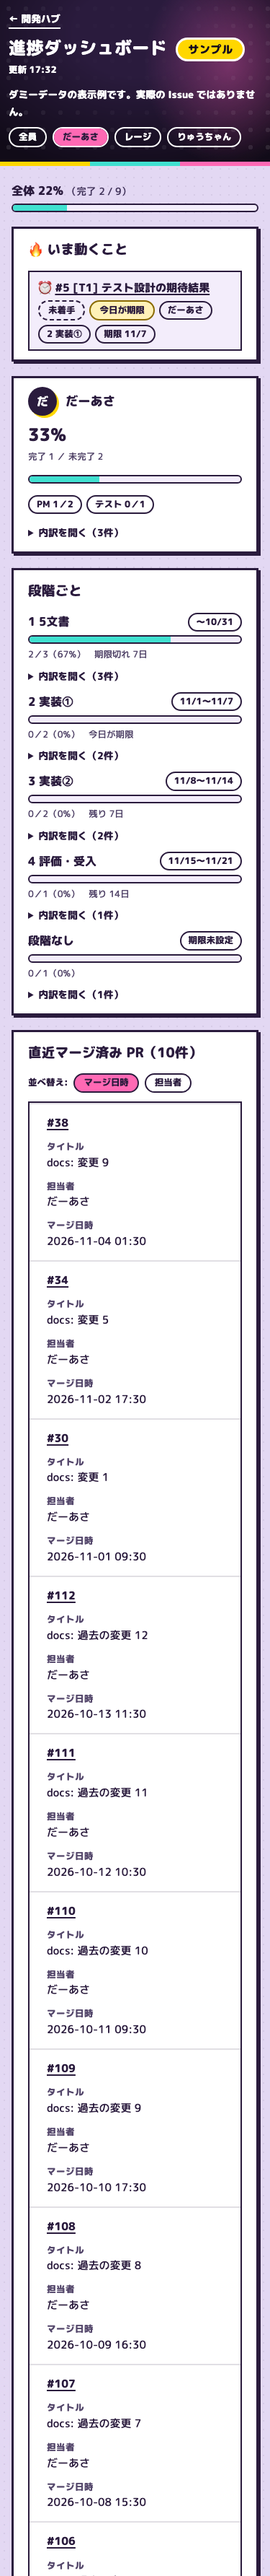
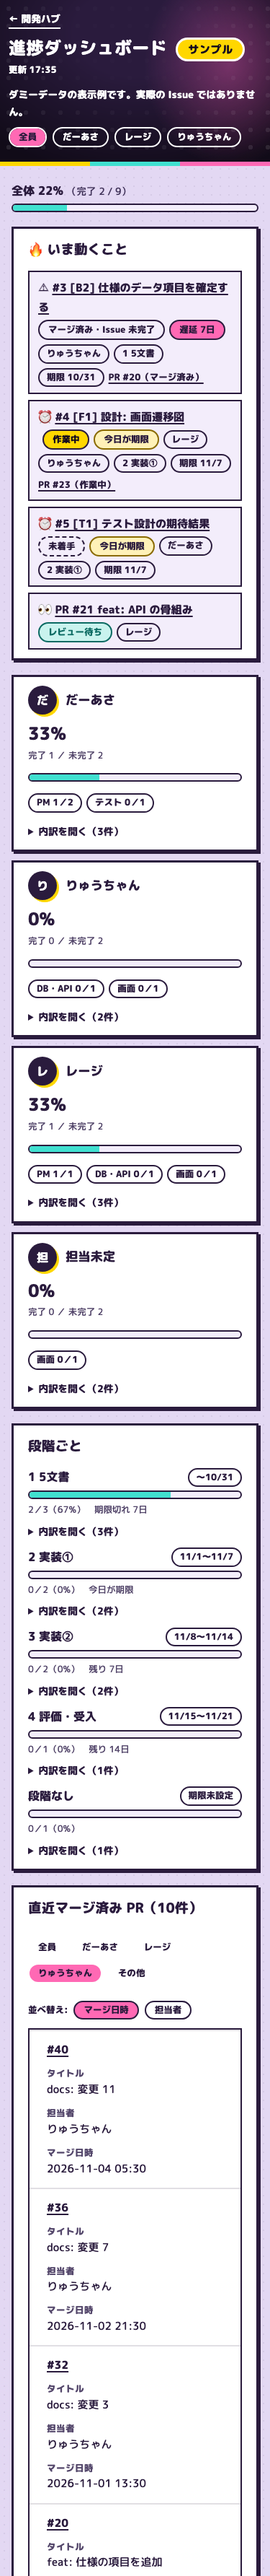
feat: PR 表は上の名前ボタンと切り離し、表の上に専用の名前ボタンを置く

diff --git a/scripts/build-progress.py b/scripts/build-progress.py
@@ -155,8 +155,8 @@ def build_model(issues, milestones, names, today):
     pool = {}
     for x in merged_prs[:RECENT_PRS]:
         pool[x["number"]] = dict(x, top=True)
-    for m in names:
-        for x in [y for y in merged_prs if y["who"] == m.lower()][:RECENT_PRS]:
+    for w in [m.lower() for m in names] + ["none"]:
+        for x in [y for y in merged_prs if y["who"] == w][:RECENT_PRS]:
             pool.setdefault(x["number"], dict(x, top=False))
     merged_pool = sorted(pool.values(), key=lambda x: (x["at"], x["number"]), reverse=True)
     merged_prs = merged_prs[:RECENT_PRS]
@@ -229,7 +229,7 @@ def render_person(p):
             + f'<details><summary>内訳を開く（{total}件）</summary><ul class="rows">{"".join(render_row(r) for r in rows)}</ul></details></section>')
 
 
-def render_prs(prs):
+def render_prs(prs, members=()):
     """直近マージ済み PR の表。担当者の列見出しで並べ替え（JS はページ内のみ）"""
     if not prs:
         return '<section class="pcard"><h3 style="margin:0">直近マージ済み PR</h3><p class="none">まだありません</p></section>'
@@ -238,8 +238,11 @@ def render_prs(prs):
         f'<td data-label="PR"><a href="{e(safe_url(x["url"]))}">#{x["number"]}</a></td>'
         f'<td data-label="タイトル">{e(x["title"])}</td><td data-label="担当者">{e(x["author"])}</td>'
         f'<td data-label="マージ日時">{x["at"].strftime("%Y-%m-%d %H:%M")}</td></tr>' for x in prs)
+    who_row = ('<ul class="meta" id="prwho" aria-label="PR を担当者で絞る">'
+               + "".join(f'<li><button type="button" data-id="{e(i)}" aria-pressed="{"true" if i == "" else "false"}" hidden>{e(n)}</button></li>'
+                         for i, n in [("", "全員")] + [(m["id"], m["name"]) for m in members] + [("none", OTHER)]) + '</ul>')
     return ('<section class="pcard" id="prs"><h3 style="margin:0">直近マージ済み PR（<span id="prn">%d</span>件）</h3>'
-            '<div class="sortbar" role="group" aria-label="並べ替え">並べ替え:'
+            + who_row + '<div class="sortbar" role="group" aria-label="並べ替え">並べ替え:'
             '<button type="button" data-k="t" aria-pressed="true">マージ日時</button>'
             '<button type="button" data-k="a" aria-pressed="false">担当者</button></div>'
             '<div class="tbl"><table><thead><tr>'
@@ -302,7 +305,7 @@ CSS = """
 .st.soon{background:var(--warn);color:var(--ctext);border:var(--bw1) solid var(--warnbd)}
 [hidden]{display:none!important}
 .none{margin:0;font-weight:800}
-#who li{padding:0}#who button{font:inherit;color:inherit;background:transparent;border:0;border-radius:var(--rp);padding:0 12px;cursor:pointer}#who button[aria-pressed="true"]{background:var(--hero);color:var(--onhero)}
+#who li,#prwho li{padding:0}#prwho{margin-bottom:var(--s3)}#who button,#prwho button{font:inherit;color:inherit;background:transparent;border:0;border-radius:var(--rp);padding:0 12px;cursor:pointer}#who button[aria-pressed="true"],#prwho button[aria-pressed="true"]{background:var(--hero);color:var(--onhero)}
 .st.set{background:var(--m1);color:#12091F;border:var(--bw1) solid var(--line)}
 .pr{font-size:var(--fs-xs);font-weight:800}
 .stg2>ul>li{display:grid;grid-template-columns:minmax(0,1fr) auto;gap:4px var(--s3);align-items:center}.stg2 .bar,.stg2 details{grid-column:1/-1}.stg2 details>summary{cursor:pointer;font:800 var(--fs-s)/2 var(--body)}.stg2 details[open]>summary{margin-bottom:var(--s2)}.sn{font-weight:800}.sv{font-size:var(--fs-xs);color:var(--csub)}
@@ -329,9 +332,18 @@ function st(){var i="";try{i=decodeURIComponent(location.hash.slice(1)).toLowerC
 function show(i){bs.forEach(function(b){b.hidden=false;b.setAttribute("aria-pressed",b.getAttribute("data-id")===i?"true":"false")});
 [].forEach.call(document.querySelectorAll("section.pcard[data-who]"),function(c){c.hidden=!!i&&c.getAttribute("data-who")!==i});
 var al=document.getElementById("al");if(al){var n=0;[].forEach.call(al.querySelectorAll("li[data-who]"),function(l){var h=!!i&&(" "+l.getAttribute("data-who")+" ").indexOf(" "+i+" ")<0;l.hidden=h;if(!h)n++});var z=al.querySelector(".none");if(z)z.hidden=n>0}
-var tb=document.querySelector("#prs tbody");if(tb){var c=0;[].forEach.call(tb.rows,function(r){var h=i?r.getAttribute("data-who")!==i:r.getAttribute("data-top")!=="1";r.hidden=h;if(!h)c++});var pn=document.getElementById("prn");if(pn)pn.textContent=c}}
+}
 bs.forEach(function(b){b.addEventListener("click",function(){var i=b.getAttribute("data-id");try{localStorage.setItem(K,i)}catch(e){}try{history.replaceState(null,"",i?"#"+i:location.pathname+location.search)}catch(e){}show(i)})});
 window.addEventListener("hashchange",function(){show(st())});show(st())})();"""
+
+
+# 直近 PR の表専用の名前ボタン（上のボタンとは独立。保存キーも別）。全員=全体の最近10件、名前=その人の最近10件
+PRWHO_JS = """(function(){var w=document.getElementById("prwho"),tb=document.querySelector("#prs tbody");if(!w||!tb)return;var bs=[].slice.call(w.querySelectorAll("button")),K="progress-prwho";
+function ok(i){return bs.some(function(b){return b.getAttribute("data-id")===i})}
+function show(i){bs.forEach(function(b){b.hidden=false;b.setAttribute("aria-pressed",b.getAttribute("data-id")===i?"true":"false")});var c=0;
+[].forEach.call(tb.rows,function(r){var h=i?r.getAttribute("data-who")!==i:r.getAttribute("data-top")!=="1";r.hidden=h;if(!h)c++});var n=document.getElementById("prn");if(n)n.textContent=c}
+bs.forEach(function(b){b.addEventListener("click",function(){var i=b.getAttribute("data-id");try{localStorage.setItem(K,i)}catch(e){}show(i)})});
+var i="";try{i=localStorage.getItem(K)||""}catch(e){}show(ok(i)?i:"")})();"""
 
 
 # 直近 PR の表: 列見出しで並べ替え。担当者は押すたびに 昇順 → 逆順。既定はマージ日時の新しい順
@@ -372,6 +384,7 @@ def page(body, updated, sample=False, members=()):
 </div></main>
 <script src="kb/kb.js" defer></script>
 <script>{FILTER_JS}</script>
+<script>{PRWHO_JS}</script>
 <script>{SORT_JS}</script>
 </body>
 </html>
@@ -404,7 +417,7 @@ def render(model, updated, sample=False):
     if not model["total"] and not model["stages"]:
         body = ('<div class="empty"><h3>まだ Issue がありません</h3>'
                 '<p>Issue に担当者とマイルストーン（段階）を付けて立てると、ここに担当者ごとの進み具合が出ます。</p></div>')
-        return page(body + render_prs(model.get("merged_pool", model.get("merged_prs", []))), updated, sample, mem)
+        return page(body + render_prs(model.get("merged_pool", model.get("merged_prs", [])), model.get("members", [])), updated, sample, mem)
     pc = pct(model["done"], model["total"])
     parts = [f'<div class="allbar"><p>全体 {pc}% <span>（完了 {model["done"]} / {model["total"]}）</span></p>'
              f'<div class="bar" role="img" aria-label="全体 {pc}%"><i style="width:{pc}%"></i></div></div>',
@@ -416,7 +429,7 @@ def render(model, updated, sample=False):
                      + "".join(render_stage(s, model["name_of"]) for s in model["stages"]) + "</ul></section>")
     if not model["total"]:
         parts.append('<div class="empty"><h3>まだ Issue がありません</h3><p>段階（マイルストーン）だけ作られています。</p></div>')
-    parts.append(render_prs(model.get("merged_pool", model.get("merged_prs", []))))
+    parts.append(render_prs(model.get("merged_pool", model.get("merged_prs", [])), model.get("members", [])))
     return page("\n".join(parts), updated, sample, mem)
 
 

diff --git a/scripts/test_build_progress.py b/scripts/test_build_progress.py
@@ -132,12 +132,12 @@ class T(unittest.TestCase):
         for who in ("hiroki0023", "re-ji-tech0"):
             self.assertEqual(sum(1 for x in pool if x["who"] == who), 10)
         self.assertLessEqual(sum(1 for x in pool if x["who"] == "matsuki24335"), 10)
-        self.assertLessEqual(len(pool), 10 + 3 * 10)
         self.assertEqual(sum(1 for x in pool if x["top"]), 10)
         for x in m["merged_prs"]:
             self.assertIn(x["number"], {y["number"] for y in pool})
         # 「その他」は全体の最近10件にいるときだけ
-        self.assertTrue(all(x["top"] for x in pool if x["who"] == "none"))
+        self.assertEqual(sum(1 for x in pool if x["who"] == "none"), 10)  # 「その他」も最近10件
+        self.assertLessEqual(len(pool), 10 + 4 * 10)
 
     def test_rows_carry_who_and_filter_js_limits_table(self):
         out = bp.render(self._many(), "x")
@@ -146,6 +146,16 @@ class T(unittest.TestCase):
         self.assertIn('id="prn"', out)
         self.assertIn('#prs tbody', out)
         self.assertIn('data-top', out.split("<script>", 1)[1])
+        # 表専用の名前ボタン: 表の上、全員｜3人｜その他。上のボタン（#who）とは別の ID・別の保存キー
+        self.assertIn('id="prwho"', out)
+        self.assertLess(out.index('id="prwho"'), out.index('<table>'))
+        pw = out[out.index('id="prwho"'):out.index('<table>')]
+        self.assertEqual([x for x in re.findall(r'hidden>([^<]+)</button>', pw)], ["全員", "だーあさ", "レージ", "りゅうちゃん", bp.OTHER])
+        js = out[out.index("progress-prwho") - 400:]
+        self.assertNotIn('"#prs', bp.FILTER_JS)  # 上のボタンの JS は PR 表に触らない
+        self.assertNotIn("prs", bp.FILTER_JS)
+        self.assertIn("progress-prwho", out)
+        self.assertNotIn("progress-who", bp.PRWHO_JS)
         self.assertEqual(out[a:].count('data-top="0" hidden>'), out[a:].count('data-top="0"'))  # 全員表示では全体の10件だけ見える
 
     def test_prs_table_and_sort_hooks(self):
